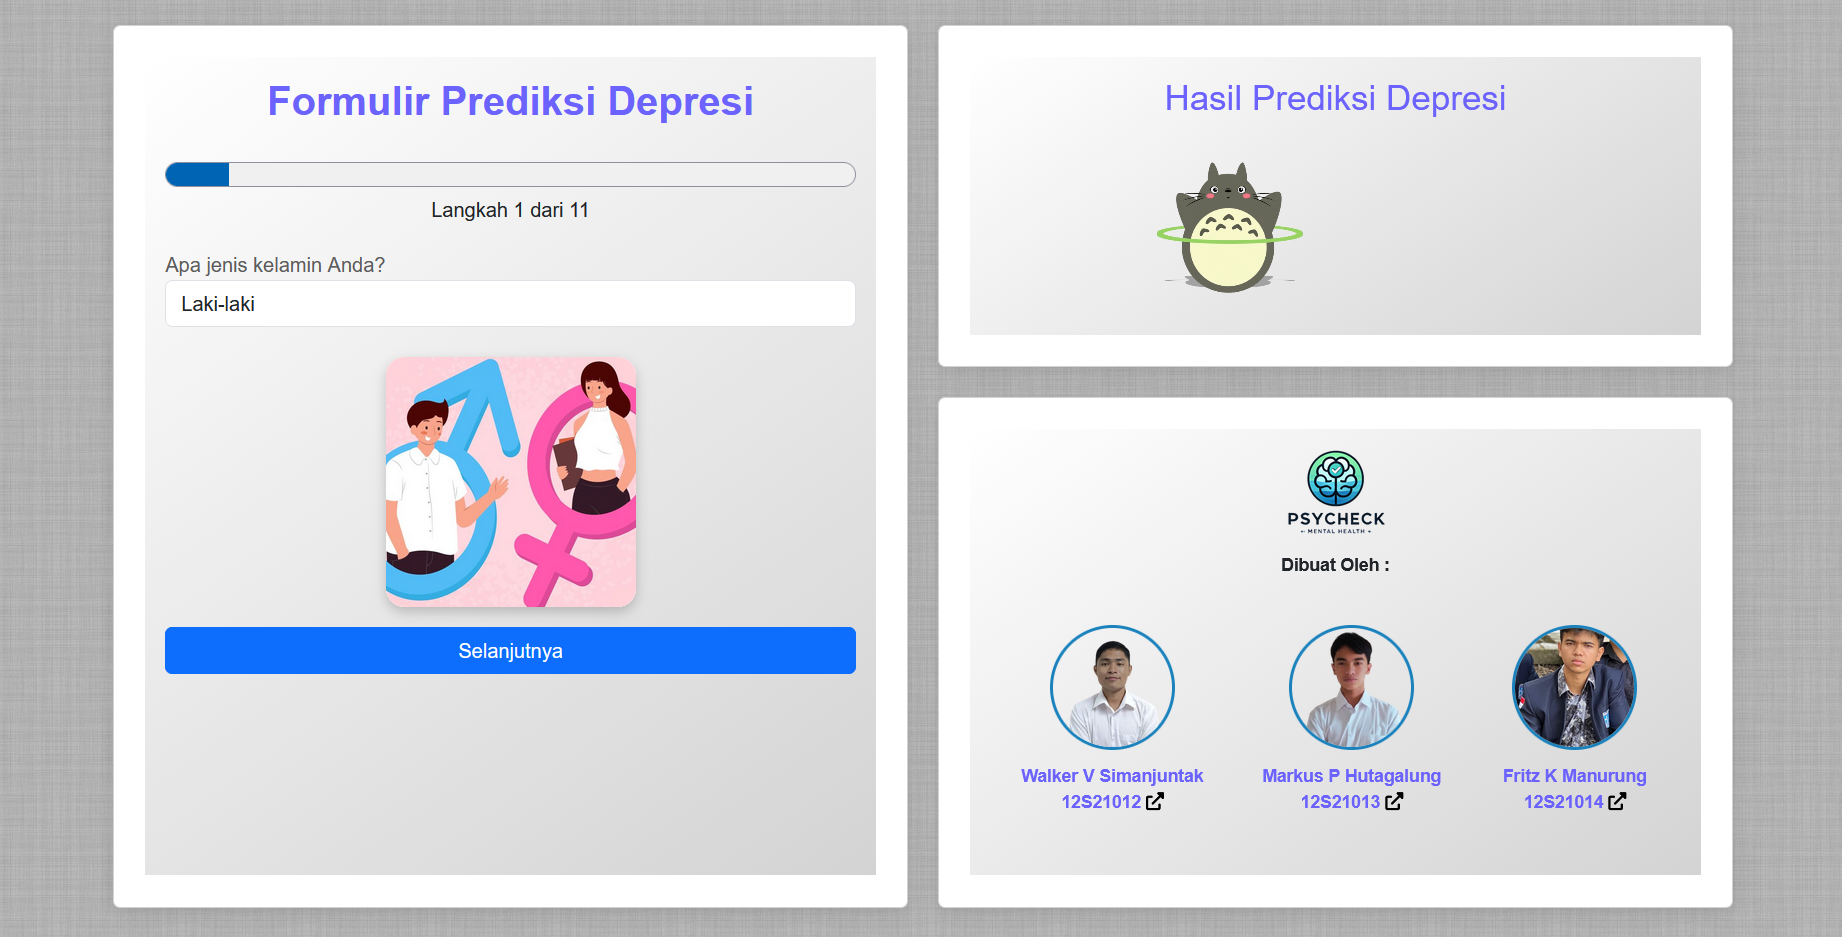
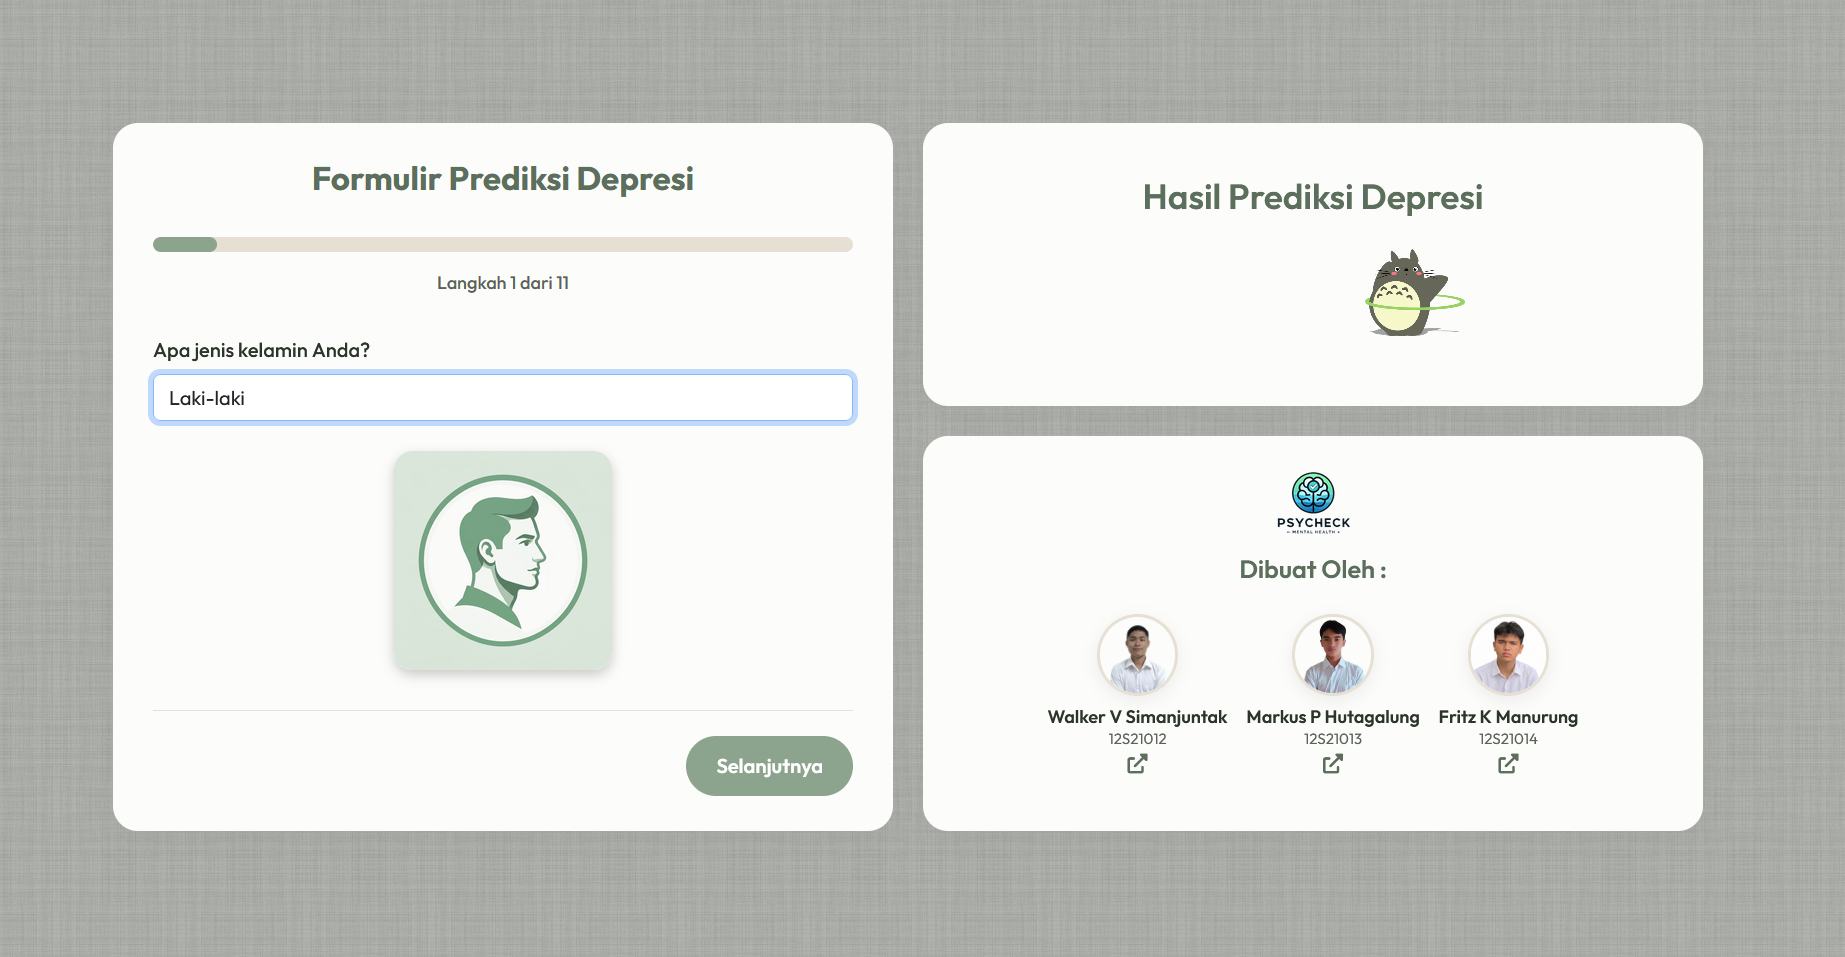
fix

diff --git a/Deployment/static/depresi.js b/Deployment/static/depresi.js
@@ -41,28 +41,36 @@ document.getElementById('depression-form').addEventListener('submit', async func
 
         const result = await response.json();
 
-        // Tentukan hasil prediksi berdasarkan probabilitas
-        let probValue = result.probability !== undefined ? result.probability : result.prediction;
-        let score = Math.round(probValue * 100);
+        // ——— LOGIKA PERSENTASE ———
+        // Backend mengembalikan probability = peluang DEPRESI (kelas 1).
+        // Kita BALIK menjadi "Skor Kesehatan Mental":
+        //   → Semakin BESAR skor = semakin SEHAT
+        //   → Semakin KECIL skor = semakin berisiko depresi
+        let probDepresi = result.probability !== undefined ? result.probability : result.prediction;
+        let healthScore = Math.round((1 - probDepresi) * 100); // Dibalik!
+
         let predictionText = "";
         let alertClass = "";
         let emoji = "";
         let tips = [];
 
-        if (probValue >= 0.70) {
-            emoji = "🔴";
-            alertClass = "alert-danger";
-            predictionText = `Indikasi Depresi Kuat (${score}%)`;
+        // Threshold berdasarkan healthScore (semakin besar = semakin sehat)
+        if (healthScore >= 60) {
+            // Sehat: healthScore 60-100% (probDepresi 0-40%)
+            emoji = "🟢";
+            alertClass = "alert-success";
+            predictionText = `Kondisi Mental Stabil`;
             tips = [
-                "Sangat disarankan untuk segera berkonsultasi dengan profesional kesehatan mental.",
-                "Kurangi beban kerja atau akademik secara bertahap.",
-                "Bicarakan perasaan Anda dengan orang yang Anda percaya.",
-                "Hubungi layanan bantuan kesehatan mental: <strong>119 ext. 8</strong>"
+                "Teruslah pertahankan gaya hidup sehat Anda!",
+                "Tetap jaga keseimbangan antara kerja dan istirahat.",
+                "Luangkan waktu untuk bersosialisasi dengan orang terdekat.",
+                "Rutinkan olahraga dan konsumsi makanan bergizi."
             ];
-        } else if (probValue >= 0.40) {
+        } else if (healthScore >= 30) {
+            // Sedang: healthScore 30-59% (probDepresi 41-70%)
             emoji = "🟡";
             alertClass = "alert-warning";
-            predictionText = `Indikasi Stres Sedang (${score}%)`;
+            predictionText = `Indikasi Stres Sedang`;
             tips = [
                 "Jaga pola tidur yang teratur (7-8 jam per malam).",
                 "Luangkan waktu untuk aktivitas yang Anda nikmati.",
@@ -70,14 +78,15 @@ document.getElementById('depression-form').addEventListener('submit', async func
                 "Olahraga ringan 30 menit sehari dapat membantu mengurangi stres."
             ];
         } else {
-            emoji = "🟢";
-            alertClass = "alert-success";
-            predictionText = `Kondisi Mental Stabil (${score}%)`;
+            // Berisiko: healthScore 0-29% (probDepresi 71-100%)
+            emoji = "🔴";
+            alertClass = "alert-danger";
+            predictionText = `Indikasi Depresi Kuat`;
             tips = [
-                "Teruslah pertahankan gaya hidup sehat Anda!",
-                "Tetap jaga keseimbangan antara kerja dan istirahat.",
-                "Luangkan waktu untuk bersosialisasi dengan orang terdekat.",
-                "Rutinkan olahraga dan konsumsi makanan bergizi."
+                "Sangat disarankan untuk segera berkonsultasi dengan profesional kesehatan mental.",
+                "Kurangi beban kerja atau akademik secara bertahap.",
+                "Bicarakan perasaan Anda dengan orang yang Anda percaya.",
+                "Hubungi layanan bantuan kesehatan mental: <strong>119 ext. 8</strong>"
             ];
         }
 
@@ -87,9 +96,16 @@ document.getElementById('depression-form').addEventListener('submit', async func
         resultDiv.innerHTML = `
             <div class="alert ${alertClass}" style="text-align: left;">
                 <h5 style="text-align: center; margin-bottom: 12px;">${emoji} <strong>${predictionText}</strong></h5>
+                <div style="text-align: center; margin-bottom: 12px;">
+                    <span style="font-size: 2rem; font-weight: 700; color: inherit;">${healthScore}%</span>
+                    <p style="font-size: 0.78rem; color: inherit; opacity: 0.8; margin: 4px 0 0;">
+                        Skor Kesehatan Mental<br>
+                        <em>(Semakin tinggi = semakin sehat)</em>
+                    </p>
+                </div>
                 <hr>
-                <p style="font-weight: 600; margin-bottom: 8px;">💡 Saran untuk Anda:</p>
-                <ul style="padding-left: 20px; margin-bottom: 0;">${tipsHtml}</ul>
+                <p style="font-weight: 600; margin-bottom: 8px; font-size: 0.85rem;">💡 Saran untuk Anda:</p>
+                <ul style="padding-left: 20px; margin-bottom: 0; font-size: 0.8rem; line-height: 1.7;">${tipsHtml}</ul>
             </div>
         `;
 
@@ -107,7 +123,11 @@ document.getElementById('depression-form').addEventListener('submit', async func
             if (progressEl) progressEl.remove();
             if (titleEl) titleEl.remove();
 
-            // Tampilkan halaman "terima kasih" yang lebih hidup
+            // Cegah duplikasi: hapus thank-you section yang sudah ada (jika ada)
+            const existingThankYou = document.getElementById('thank-you-section');
+            if (existingThankYou) existingThankYou.remove();
+
+            // Tampilkan halaman "terima kasih"
             const cardBody = form.closest('.card-body');
             const thankYou = document.createElement('div');
             thankYou.id = 'thank-you-section';

diff --git a/README.MD b/README.MD
@@ -1,101 +1,93 @@
 <div align="center">
-  <img src="Document/img/hero-banner.png" alt="Mental Health Data Mining Hero Banner" width="60%">
+  <img src="Document/img/hero-banner.png" alt="PsyCheck Mental Health Hero Banner" width="100%">
   
   <br>
   
-  # **Data Mining: Explore Mental Health Data**
+  # **PsyCheck: Modern Mental Health Detection**
   
   [![Python](https://img.shields.io/badge/Python-3.x-blue.svg)](https://www.python.org/)
-  [![Scikit-Learn](https://img.shields.io/badge/Scikit--Learn-1.5.2-orange.svg)](https://scikit-learn.org/)
   [![XGBoost](https://img.shields.io/badge/XGBoost-2.1.3-brightgreen.svg)](https://xgboost.readthedocs.io/)
   [![Flask](https://img.shields.io/badge/Flask-Web_-lightgray.svg)](https://flask.palletsprojects.com/)
+  [![Aesthetic](https://img.shields.io/badge/Design-Sage_Green_Premium-8CA38D.svg)](#)
   
-  Sebuah pendekatan komprehensif **CRISP-DM (Cross Industry Standard Process for Data Mining)** untuk memprediksi dan mendeteksi risiko kondisi kesehatan mental (depresi) berdasarkan rekam data survei.
+  Sistem cerdas berbasis **CRISP-DM** untuk deteksi dini risiko depresi dengan antarmuka modern, interaktif, dan premium.
 </div>
+
+---
+
+## 🆕 **Pembaruan Utama (Major Updates)**
+Proyek ini telah melalui fase **Revitalisasi Total** untuk meningkatkan fungsionalitas dan pengalaman pengguna:
+
+- 🚀 **Konsolidasi Arsitektur:** Migrasi dari 15+ file HTML yang terfragmentasi menjadi satu sistem **Single-Template** yang efisien dan cepat (Depresi.html).
+- 🎨 **Revolusi Visual:** Transformasi total ke tema **Sage Green Premium** dengan desain minimalis yang menenangkan.
+- 🖼 **Sistem Ilustrasi Kustom:** Penempatan 11+ ilustrasi vektor unik yang menggabungkan estetika modern dengan sentuhan **Humor** untuk mengurangi stigma saat mengisi survei.
+- 🧠 **Smart Logic Upgrade:** Peningkatan algoritma menggunakan **XGBoost Probability Analysis** yang memberikan hasil dinamis (Risiko Rendah, Sedang, hingga Tinggi).
 
 ---
 
 ## **1. Business Understanding**
 ### 🎯 **Objektif Bisnis**
-Kesehatan mental, khususnya tekanan akademik dan pekerjaan yang dapat memicu depresi, semakin menjadi sorotan utama global. Proyek ini bertujuan untuk mengembangkan sistem _Machine Learning_ yang mampu mengenali **faktor utama penyebab risiko depresi** berdasarkan pola kebiasaan individu, jam kerja/belajar, stres finansial, dan riwayat kesehatan. Solusi ini diharapkan dapat menjadi fondasi awal deteksi dini pada lingkungan akademi maupun profesional.
+Kesehatan mental adalah prioritas global. Proyek ini bertujuan untuk mengenali **faktor utama risiko depresi** berdasarkan pola kebiasaan individu, jam kerja/belajar, stres finansial, dan riwayat keluarga. Solusi ini dirancang sebagai alat bantu deteksi awal yang intuitif dan tidak intimidatif.
 
 ---
 
 ## **2. Data Understanding**
 ### 📊 **Deskripsi Dataset**
-Dataset diperoleh dari hasil survei anonim untuk memahami faktor-faktor pendorong risiko kesehatan mental pada orang dewasa. Terdiri dari **141.000 baris data latih (train)** dan **93.000 baris data uji (test)**, dengan **20 variabel** yang memiliki tipe data beragam.
-
-- **Numerik**: `Age`, `CGPA`, `Work/Study Hours`
-- **Kategorik**: `Gender`, `Working Professional or Student`, `Academic Pressure`, `Work Pressure`, `Study/Job Satisfaction`, `Sleep Duration`, `Dietary Habits`, `Financial Stress`, `Depression` (Target)
-- **Teks Literal**: `Name`, `City`, `Profession`, `Degree`
-- **Boolean**: `Have you ever had suicidal thoughts?`, `Family History of Mental Illness`
+Dataset diperoleh dari survei anonim dengan fokus pada orang dewasa. Terdiri dari **141.000 baris data latih** dan **20 variabel** kunci, termasuk:
+- **Kebiasaan:** Durasi Tidur, Pola Makan.
+- **Tekanan:** Tekanan Akademik/Kerja, Stres Finansial.
+- **Kesehatan Mental:** Pikiran Bunuh Diri, Riwayat Keluarga.
 
 ---
 
-## **3. Data Preparation**
-Proses pengolahan data mentah (CSV) agar siap dimasukkan ke dalam model ML tertuang di file _Jupyter Notebook_ (`Application/data-understanding.ipynb`).
-* **Pembersihan Data (_Cleaning_)**: Mengatasi _missing values_ dan modifikasi _outliers_.
-* **Pra-Pemrosesan (_Preprocessing_)**: Teknik encoding untuk data non-numerik (misal: merubah klasifikasi Jam Tidur menjadi indeks skor) dan eliminasi kolom nama/kota yang kurang berkorelasi (drop-feature).
-* **Dataset Bersih**: Menghasilkan `train_clean.csv` dan `test_clean.csv` di direktori `Data`.
+## **3. Modelling & Evaluation**
+Setelah mengevaluasi berbagai algoritma (NN, Random Forest, XGBoost), **XGBoost** dipilih sebagai model produksi karena akurasinya yang superior dalam menangani interaksi fitur tak linear.
 
 ---
 
-## **4. Modelling**
-Berbagai model dikembangkan dan diukur dalam direktori `Application`. Model yang dikembangkan antara lain:
-1. 🧠 **Neural Network (Multilayer Perceptron)** - Cenderung sensitif terhadap standar fitur.
-2. 🌳 **Random Forest (RF)** - Metode _ensemble bagging_ yang tangguh menangani data tak linear.
-3. 🚀 **XGBoost (Extreme Gradient Boosting)** - Model berbasis *boosting* terbaik dan sangat teliti.
+## **4. Deployment**
+Model diintegrasikan ke dalam aplikasi web **Flask** interaktif yang memproses input pengguna secara *real-time*.
 
-✅ **Pemilihan Model**: Dari hasil evaluasi, **XGBoost** secara telak menunjukkan kombinasi performa akurasi dan kecepatan yang paling optimal, sehingga diekspor sebagai `xgb_model.pkl` untuk tahap _Deployment_.
-
----
-
-## **5. Evaluation**
-### 📈 **Analisis Hasil**
-Berdasarkan prediksi XGBoost (disimpan pada `Data/xgb_pred.csv`), model sukses mempelajari pola klasifikasi orang yang mengalami tekanan (indikasi depresi) secara akurat berdasarkan interaksi kombinasi fitur: *Durasi Tidur* (Sleep Duration), *Stres Finansial*, *Diet*, serta *Faktor Genetik*. 
-
----
-
-## **6. Deployment**
-Model _machine learning_ terbaik kami (`xgb_model.pkl`) diintegrasikan langsung sebagai **Website Interaktif** menggunakan *framework* web **Flask**. Website ini meminta masukan data anonim dari pengguna di *Real Time* dan seketika mengeksekusi analisis probabilitas.
-
-### 💻 Tampilan Aplikasi
-
+### 💻 Tampilan Aplikasi Baru
 <div align="center">
-  <img src="Document/img/app-screenshot.png" alt="Aplikasi Prediksi Depresi" width="80%">
+  <img src="Document/img/app-screenshot.png" alt="Aplikasi PsyCheck Baru" width="85%">
 </div>
 
 ---
 
 ## 🛠 **Instruksi Menjalankan Proyek**
-Jika Anda ingin menjalankan atau mengembangkan proyek ini di komputer lokal secara mandiri:
 
 ### **Persyaratan Sistem**
 * Python 3.9+
-* Kloning repositori ini
+* Browser Modern (Chrome/Edge/Firefox)
 
 ### **Langkah Instalasi**
-1. Masuk ke direktori repositori:
+1. **Masuk ke folder proyek:**
    ```bash
    cd Project-Data-Mining-Explore-Mental-Health
    ```
-2. Instal semua pustaka yang dibutuhkan:
+2. **Aktifkan Virtual Environment:**
+   ```powershell
+   # Windows
+   .\venv\Scripts\activate
+   ```
+3. **Instal Dependencies:**
    ```bash
    pip install -r requirements.txt
    ```
-   *Dependency Utama: `Flask==3.1.0`, `xgboost==2.1.3`, `scikit-learn==1.5.2`, `pandas`*
 
-### **Menyalakan Aplikasi Web**
-1. Buka folder Deployment:
+### **Menjalankan Aplikasi**
+1. **Masuk ke folder Deployment:**
    ```bash
    cd Deployment
    ```
-2. Jalankan server **Flask**:
+2. **Jalankan server:**
    ```bash
    python app.py
    ```
-3. Buka peramban (browser) dan akses alamat: 👉 `http://127.0.0.1:8080/`
+3. **Akses alamat:** 👉 `http://127.0.0.1:8080/`
 
 ---
-*Dikembangkan atas pendekatan ilmiah eksplorasi Data Mining berstandar CRISP-DM.*
-
+<div align="center">
+  <p><i>Dikembangkan dengan pendekatan CRISP-DM & Estetika Modern Minimalis.</i></p>
+</div>
